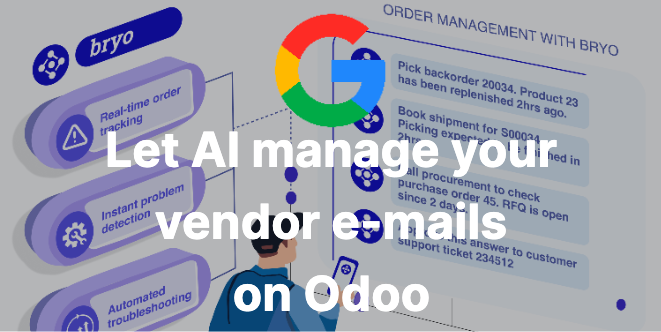
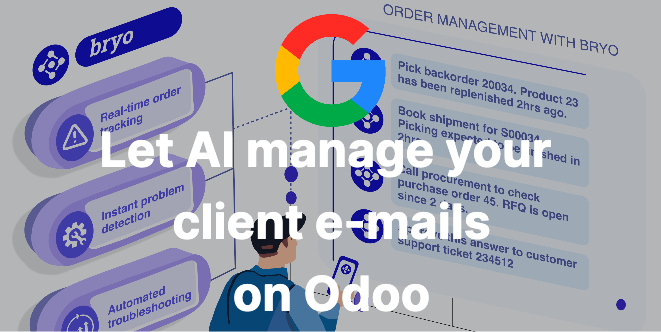
Added static files to publish the app

diff --git a/client_communication_copilot/static/description/index.html b/client_communication_copilot/static/description/index.html
@@ -1,31 +1,35 @@
 
 <section class="oe_container oe_dark">
     <div class="col-md-12">
-        <h2 class="oe_slogan" style="font-size: 35px;color:#2C0091"><b>Align all stakeholders and update your systems with the latest status of your purchase orders</b></h2>
+        <h2 class="oe_slogan" style="font-size: 35px;color:#2C0091"><b>Align all stakeholders and update your systems with the latest status of your customer orders</b></h2>
     </div>
 </section>
 
 <section class="oe_container">
     <div class="col-md-12">
         <ul>
-            <li><p>Supply chain managers face a number of challenges in keeping up with vendor updates</p></li>
+            <li><p>Manually updating B2B orders with customer requests from emails is a daunting task.</p></li>
             <li>
-                <p>Vendors share updates on the status of orders and offers via emails, text or phone. The supply-chain manager then needs to retrieve the relevant purchase orders, check what changed, and update Odoo.</p>
+                <p>Sales managers have to retrieve the relevant quotations and sale orders, check what changed, and then update Odoo.
+                    Doing this correctly for every customer communication can be a time-consuming and error-prone process.
+                </p>
             </li>
             <li>
-                <p>Furthermore, she needs to manually check if the changes have any impact on existing sales orders and manufacturing orders. And if there is an impact, the relevant sales or production manager needs to be notified.</p>
+                <p>Our ChatGPT-powered Odoo app automates this entire process, saving sales managers hours of time and effort.
+                    It reads and understands customer emails, extracts the relevant information, and then assists users on how to update Odoo (quantities, dates, specifications, prices).
+                    It also notifies the relevant stakeholders.
+                </p>
             </li>
             <li>
-                <p>Doing this for every vendor communication can be a daunting task.</p>
+                <p>The app is embedded in the Odoo chat box so sales managers can continue using the interface they are used to.
+                </p>
             </li>
             <li>
-                <p>We built an Odoo app that seeks to automate these tasks by using the large language models behind ChatGPT.  It reads and understands vendor emails, extracts relevant information about the order, assists users on how to update Odoo (purchase orders, sale orders, manufacturing orders) and notifies the relevant stakeholders.</p>
+                <p>Try the beta app today and get a first glimpse into how easy it is to automate your B2B order updates!
+                </p>
             </li>
             <li>
-                <p>The app is embedded in the Odoo chat box so the supply-chain manager can continue using the interface she’s used to.</p>
-            </li>
-            <li>
-                <p>You can download and test this app on the Odoo marketplace. Join our journey to bring supply-chain managers to the next level of productivity!</p>
+                <p>You can download and test this app on the Odoo marketplace. Join our journey to bring the sales teams to the next level of productivity!</p>
             </li>
             <li>
                 <p>ps. The current module is just a beta that we have released to show the basic functionalities and capabilities. We are continously working on making the product better. We would highly appreciate your feedback. Join the following telegram channel or send us an email to info@bryo.io</p>

diff --git a/client_communication_copilot/models/mail_channel.py b/client_communication_copilot/models/mail_channel.py
@@ -278,8 +278,12 @@ class Channel(models.Model):
                         res_df = pd.json_normalize(res_json["sale_orders"])
                         # check if res_df is not empty
                         # if not res_df.empty:
-                        res_df_html = res_df.to_html(index=False)
-                        latest_channel.with_user(copilot_user).message_post(body=res_df_html, message_type='comment',
+                        # select all columns except product_id, price_total, price_total_updated and save the new df as display_df
+                        display_df = res_df.drop(columns=['product_id', 'price_total', 'price_total_updated'])
+
+                        display_df_html = display_df.to_html(index=False)
+                        display_df_html = display_df_html.replace('<table>', '<table style="font-size: 1px;">')
+                        latest_channel.with_user(copilot_user).message_post(body=display_df_html, message_type='comment',
                                                                             subtype_xmlid='mail.mt_comment')
                         latest_channel.with_user(odoo_bot_user).message_post(
                             body="Do you want to track the state of these orders? Reply with 1 if you do",
